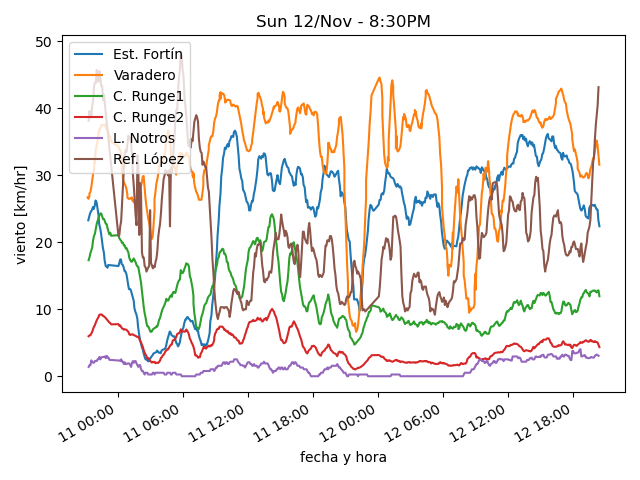
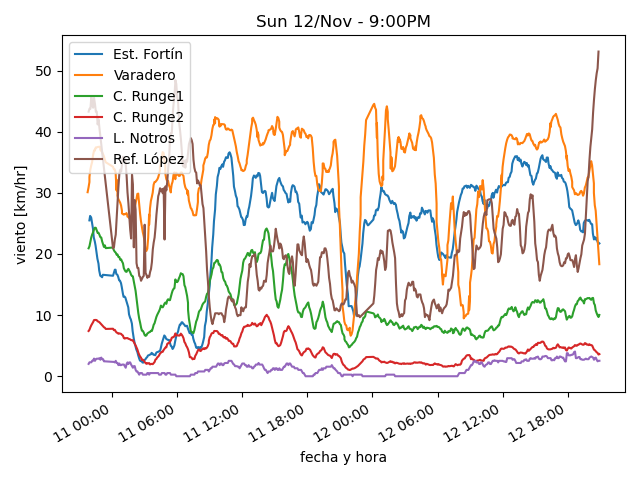
actualiza datos

diff --git a/estaciones/estacion2.html b/estaciones/estacion2.html
@@ -18,32 +18,32 @@
     </tr>
     <tr>
      <td class="stats_data">
-      8:24PM
+      8:54PM
      </td>
     </tr>
     <tr>
      <td class="stats_data">
-      6.2⁰C
+      5.3⁰C
      </td>
     </tr>
     <tr>
      <td class="stats_data">
-      1.3⁰C
+      0.1⁰C
      </td>
     </tr>
     <tr>
      <td class="stats_data">
-      70.8%
+      68.7%
      </td>
     </tr>
     <tr>
      <td class="stats_data">
-      1023.43hPa
+      1023.84hPa
      </td>
     </tr>
     <tr>
      <td class="stats_data">
-      15.0/20.1 km/hr NW
+      8.9/13.0 km/hr WNW
      </td>
     </tr>
     <tr>
@@ -58,7 +58,7 @@
     </tr>
     <tr>
      <td class="stats_data">
-      12.5 W/m²
+      0.0 W/m²
      </td>
     </tr>
    </tbody>

diff --git a/estaciones/estacion3.html b/estaciones/estacion3.html
@@ -18,32 +18,32 @@
     </tr>
     <tr>
      <td class="stats_data">
-      8:24PM
+      8:54PM
      </td>
     </tr>
     <tr>
      <td class="stats_data">
-      4.3⁰C
+      4.1⁰C
      </td>
     </tr>
     <tr>
      <td class="stats_data">
-      -0.5⁰C
+      -1.0⁰C
      </td>
     </tr>
     <tr>
      <td class="stats_data">
-      70.7%
+      69.5%
      </td>
     </tr>
     <tr>
      <td class="stats_data">
-      1008.74hPa
+      1009.11hPa
      </td>
     </tr>
     <tr>
      <td class="stats_data">
-      7.0/9.7 km/hr W
+      8.2/11.4 km/hr W
      </td>
     </tr>
     <tr>
@@ -58,7 +58,7 @@
     </tr>
     <tr>
      <td class="stats_data">
-      13.3 W/m²
+      0.0 W/m²
      </td>
     </tr>
    </tbody>

diff --git a/estaciones/estacion4.html b/estaciones/estacion4.html
@@ -18,32 +18,32 @@
     </tr>
     <tr>
      <td class="stats_data">
-      8:24PM
+      8:54PM
      </td>
     </tr>
     <tr>
      <td class="stats_data">
-      4.3⁰C
+      4.0⁰C
      </td>
     </tr>
     <tr>
      <td class="stats_data">
-      -1.4⁰C
+      -1.8⁰C
      </td>
     </tr>
     <tr>
      <td class="stats_data">
-      66.3%
+      66.0%
      </td>
     </tr>
     <tr>
      <td class="stats_data">
-      1017.71hPa
+      1017.81hPa
      </td>
     </tr>
     <tr>
      <td class="stats_data">
-      1.7/2.8 km/hr SW
+      2.5/4.3 km/hr SW
      </td>
     </tr>
     <tr>
@@ -58,7 +58,7 @@
     </tr>
     <tr>
      <td class="stats_data">
-      9.4 W/m²
+      0.6 W/m²
      </td>
     </tr>
    </tbody>

diff --git a/estaciones/estacion1.html b/estaciones/estacion1.html
@@ -18,22 +18,22 @@
     </tr>
     <tr>
      <td class="stats_data">
-      8:24PM
+      8:54PM
      </td>
     </tr>
     <tr>
      <td class="stats_data">
-      5.1⁰C
+      4.4⁰C
      </td>
     </tr>
     <tr>
      <td class="stats_data">
-      -1.7⁰C
+      -1.4⁰C
      </td>
     </tr>
     <tr>
      <td class="stats_data">
-      61.7%
+      66.0%
      </td>
     </tr>
     <tr>
@@ -43,7 +43,7 @@
     </tr>
     <tr>
      <td class="stats_data">
-      15.6/21.5 km/hr WNW
+      9.1/20.4 km/hr W
      </td>
     </tr>
     <tr>
@@ -58,7 +58,7 @@
     </tr>
     <tr>
      <td class="stats_data">
-      12.0 W/m²
+      0.0 W/m²
      </td>
     </tr>
    </tbody>

diff --git a/estaciones/estacion6.html b/estaciones/estacion6.html
@@ -18,32 +18,32 @@
     </tr>
     <tr>
      <td class="stats_data">
-      8:20PM
+      8:50PM
      </td>
     </tr>
     <tr>
      <td class="stats_data">
-      -2.3⁰C
+      -2.4⁰C
      </td>
     </tr>
     <tr>
      <td class="stats_data">
-      -4.2⁰C
+      -4.6⁰C
      </td>
     </tr>
     <tr>
      <td class="stats_data">
-      87.0%
+      85.0%
      </td>
     </tr>
     <tr>
      <td class="stats_data">
-      1022.86hPa
+      1023.5hPa
      </td>
     </tr>
     <tr>
      <td class="stats_data">
-      38.6/49.9 km/hr SW
+      22.5/62.8 km/hr S
      </td>
     </tr>
     <tr>

diff --git a/estaciones/estacion5.html b/estaciones/estacion5.html
@@ -18,32 +18,32 @@
     </tr>
     <tr>
      <td class="stats_data">
-      8:20PM
+      8:55PM
      </td>
     </tr>
     <tr>
      <td class="stats_data">
-      4.6⁰C
+      4.1⁰C
      </td>
     </tr>
     <tr>
      <td class="stats_data">
-      -0.4⁰C
+      -0.7⁰C
      </td>
     </tr>
     <tr>
      <td class="stats_data">
-      70.0%
+      71.0%
      </td>
     </tr>
     <tr>
      <td class="stats_data">
-      1021.57hPa
+      1022.05hPa
      </td>
     </tr>
     <tr>
      <td class="stats_data">
-      0.0/2.6 km/hr N
+      0.0/3.5 km/hr N
      </td>
     </tr>
     <tr>
